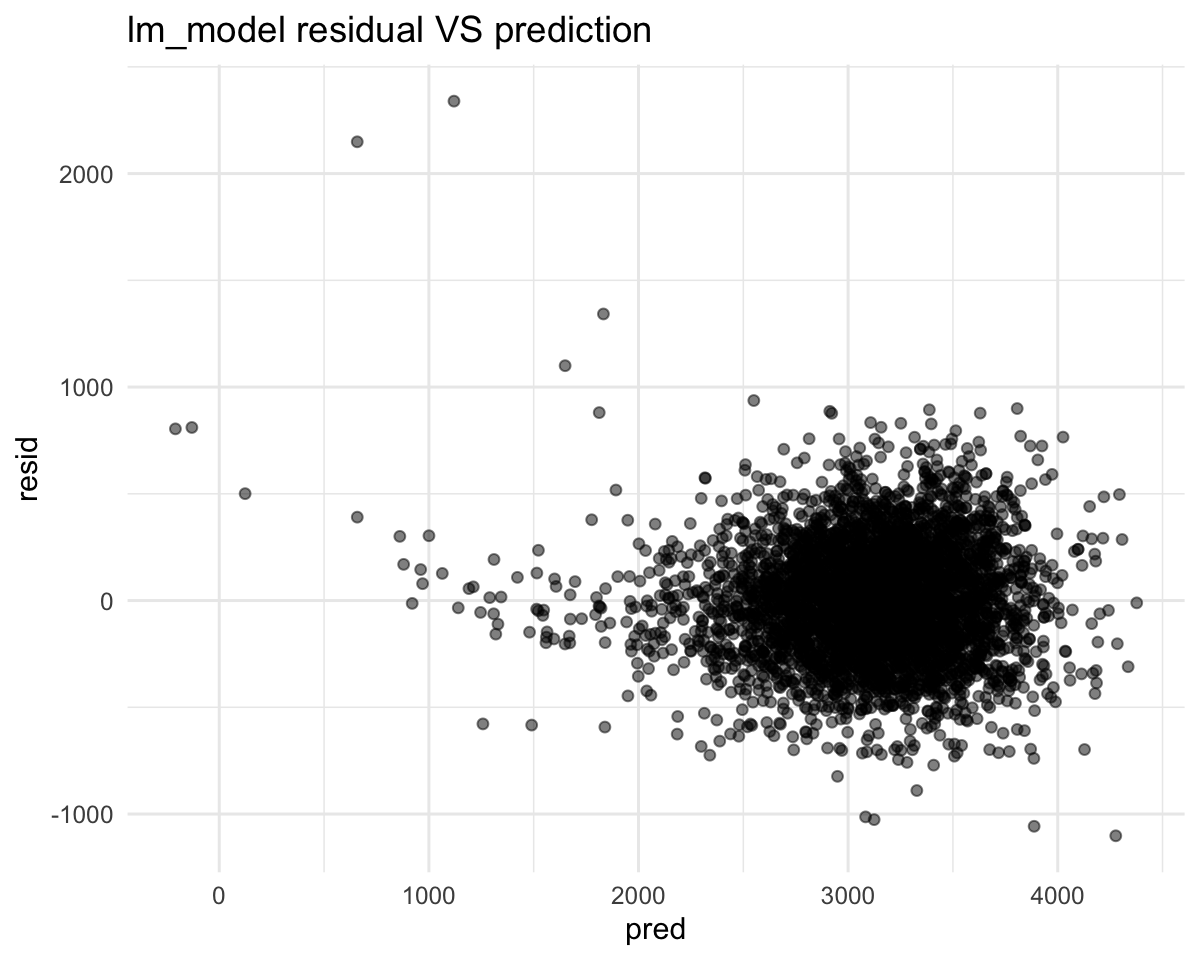
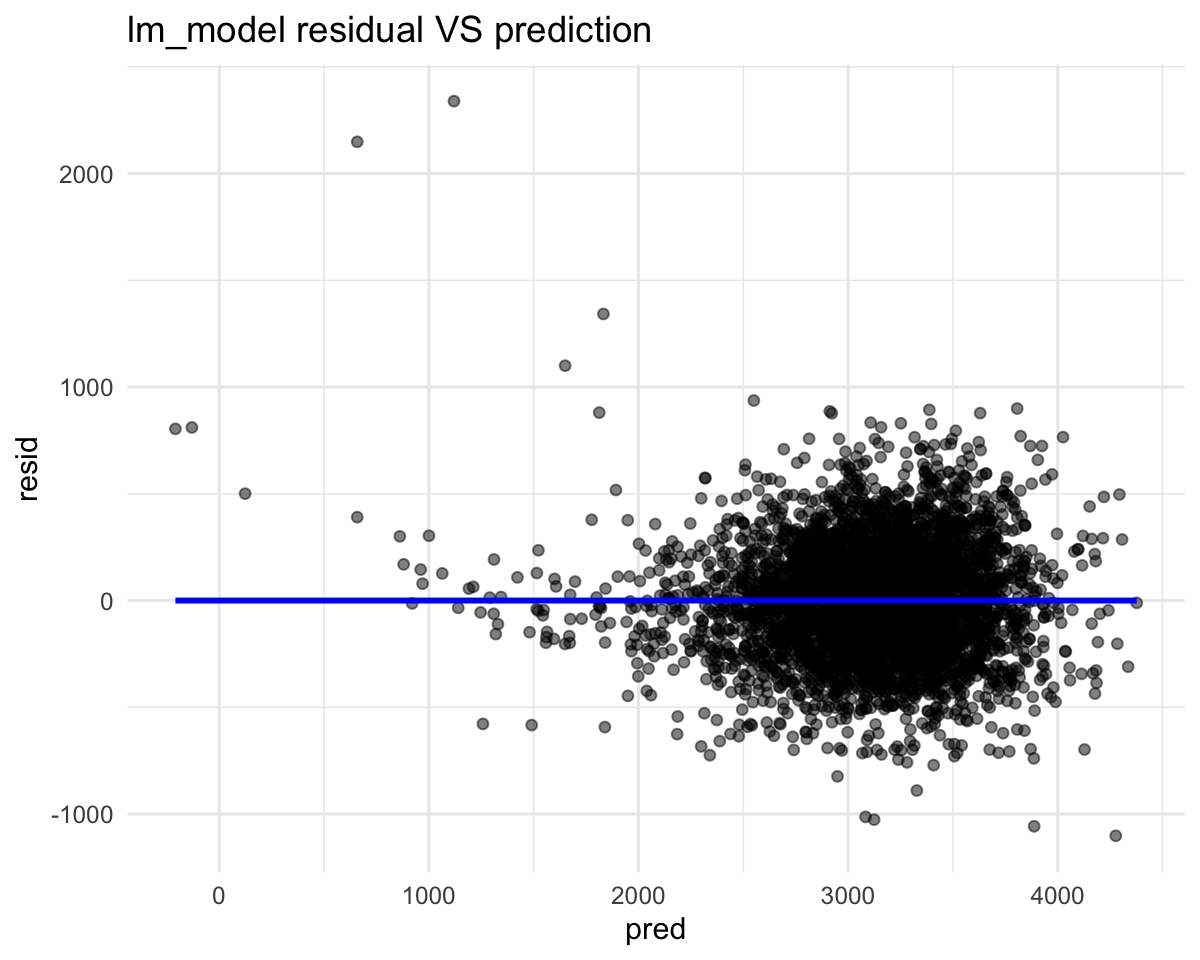
final commit

Changed region(s): [[0.1542, 0.625, 0.925, 0.6562]]

diff --git a/p8105_hw6_yl4925.md b/p8105_hw6_yl4925.md
@@ -9,22 +9,23 @@ library(modelr)
 library(mgcv)
 ```
 
+## Problem1
+
 ``` r
 birthweight_df = read.csv("./data/birthweight.csv") %>% 
   janitor::clean_names() 
 ```
 
 ``` r
-birthweight_df %>% 
-  filter(is.na(rowSums(birthweight_df)))
+sum(is.na(rowSums(birthweight_df)))
 ```
 
-    ##  [1] babysex  bhead    blength  bwt      delwt    fincome  frace    gaweeks 
-    ##  [9] malform  menarche mheight  momage   mrace    parity   pnumlbw  pnumsga 
-    ## [17] ppbmi    ppwt     smoken   wtgain  
-    ## <0 rows> (or 0-length row.names)
+    ## [1] 0
 
 There is no missing value.
+
+Then we try to propose a linear regression model for the data. First, we
+factor some variables
 
 ``` r
 fct_birthweight_df = birthweight_df %>% 
@@ -38,6 +39,9 @@ fct_birthweight_df = birthweight_df %>%
     frace == 4 ~ "puerto_rican",
     frace == 8 ~ "other",
     frace == 9 ~ "unknown",
+  ), malform = case_when(
+    malform == 0 ~ "absent",
+    malform == 1 ~ "present"
   ), mrace = case_when(
     mrace == 1 ~ "white",
     mrace == 2 ~ "black",
@@ -47,13 +51,15 @@ fct_birthweight_df = birthweight_df %>%
   )) %>% 
   mutate(babysex = fct_infreq(babysex), 
          frace = fct_infreq(frace),
-         mrace = fct_infreq(mrace))
+         mrace = fct_infreq(mrace),
+         malform = fct_infreq(malform))
 ```
 
+Then we use lm to regress all variables. And we try to exclude some
+variables from our model.
+
 ``` r
-original_fit = lm(bwt ~ babysex + bhead + blength + delwt + fincome + frace + gaweeks + 
-                    malform + menarche + mheight + momage + mrace + parity + pnumlbw + 
-                    pnumsga + ppbmi + ppwt + smoken + wtgain, data = fct_birthweight_df)
+original_fit = lm(bwt ~ ., data = fct_birthweight_df)
 ```
 
 ``` r
@@ -70,9 +76,10 @@ original_fit_df %>%
 | pnumsga |
 | wtgain  |
 
-We find there are three NA coefficients, which means that these three
-variables could be linear combination of other variables, so we do not
-choose these three variables as predictors.
+We find there are three NA coefficients (pnumlbw, pnumsga and wtgain),
+which means that these three variables could be linear combination of
+other variables, so we do not choose these three variables as
+predictors.
 
 ``` r
 original_fit_df %>% 
@@ -88,7 +95,7 @@ original_fit_df %>%
 | fracepuerto\_rican | -46.9962310 | 0.2929123 |
 | fraceasian         |  21.2361118 | 0.7592729 |
 | fraceother         |   4.2969242 | 0.9537446 |
-| malform            |   9.7649680 | 0.8900388 |
+| malformpresent     |   9.7649680 | 0.8900388 |
 | menarche           |  -3.5507723 | 0.2200827 |
 | mheight            |   9.7874130 | 0.3425881 |
 | momage             |   0.7593479 | 0.5344182 |
@@ -100,14 +107,48 @@ original_fit_df %>%
 The p values for these 13 variables are greater than 0.05, which means
 that we could not reject null hypothesis (coefficient is zero). But for
 mrace variable, some values of this variable are necessary (p value &lt;
-0.05). So we remain these two variables and only exclude frace (only the
-p value for “unknown” &lt; 0.05), fincome, malform, menarche, mheight,
-momage, ppbmi and ppwt.
+0.05). So we remain mrace variables and only exclude frace (only the p
+value for “unknown” &lt; 0.05), fincome, malform (only the p value for
+“absent” &lt; 0.05), menarche, mheight, momage, ppbmi and ppwt.
+
+Then we get a better model.
 
 ``` r
 better_fit = lm(bwt ~ babysex + bhead + blength + delwt + gaweeks + mrace + 
                   parity + ppbmi + ppwt + smoken , data = fct_birthweight_df)
+summary(better_fit)
 ```
+
+    ## 
+    ## Call:
+    ## lm(formula = bwt ~ babysex + bhead + blength + delwt + gaweeks + 
+    ##     mrace + parity + ppbmi + ppwt + smoken, data = fct_birthweight_df)
+    ## 
+    ## Residuals:
+    ##      Min       1Q   Median       3Q      Max 
+    ## -1101.89  -183.53    -2.52   174.72  2339.27 
+    ## 
+    ## Coefficients:
+    ##                     Estimate Std. Error t value Pr(>|t|)    
+    ## (Intercept)       -5669.6216   101.0955 -56.082  < 2e-16 ***
+    ## babysexfemale        28.3709     8.4578   3.354 0.000802 ***
+    ## bhead               131.0913     3.4452  38.050  < 2e-16 ***
+    ## blength              74.8239     2.0178  37.082  < 2e-16 ***
+    ## delwt                 4.0857     0.3920  10.422  < 2e-16 ***
+    ## gaweeks              11.6674     1.4618   7.981 1.84e-15 ***
+    ## mraceblack         -145.5239     9.2254 -15.774  < 2e-16 ***
+    ## mracepuerto_rican  -107.2366    19.0691  -5.624 1.99e-08 ***
+    ## mraceasian          -79.5499    42.2934  -1.881 0.060052 .  
+    ## parity               94.3584    40.3421   2.339 0.019383 *  
+    ## ppbmi                -9.5824     2.5704  -3.728 0.000196 ***
+    ## ppwt                 -0.9795     0.5659  -1.731 0.083553 .  
+    ## smoken               -4.8751     0.5856  -8.325  < 2e-16 ***
+    ## ---
+    ## Signif. codes:  0 '***' 0.001 '**' 0.01 '*' 0.05 '.' 0.1 ' ' 1
+    ## 
+    ## Residual standard error: 272.4 on 4329 degrees of freedom
+    ## Multiple R-squared:  0.7178, Adjusted R-squared:  0.717 
+    ## F-statistic: 917.7 on 12 and 4329 DF,  p-value: < 2.2e-16
 
 ``` r
 better_fit %>% 
@@ -137,16 +178,23 @@ fct_birthweight_df %>%
   modelr::add_predictions(better_fit) %>% 
   ggplot(aes(x = pred, y = resid)) + 
   geom_point(alpha = 0.5) + 
+  geom_smooth(color = "blue", method = "lm", se = FALSE) + 
   labs(
     title = "lm_model residual VS prediction"
   )
 ```
 
 <img src="p8105_hw6_yl4925_files/figure-gfm/unnamed-chunk-10-1.png" width="90%" />
+We find the slope of smooth line for residual VS predictor is almost 0,
+which means that these points are symmetric about the predictor-axis.
+The reason for this might be that when we use linear regression, we set
+a normal distribution residual (*ϵ* \~ N (0, *σ*<sup>2</sup>)).
+
+Then we compare our model to the main effect model and interaction
+model.
 
 ``` r
-cv_df = 
-  crossv_mc(fct_birthweight_df, 100) 
+cv_df = crossv_mc(fct_birthweight_df, 100) 
 ```
 
 ``` r
@@ -164,13 +212,13 @@ cv_df =
     my_mod = map(train, ~lm(bwt ~ babysex + bhead + blength + delwt + gaweeks + mrace + 
                   parity + ppbmi + ppwt + smoken , data = .x)),
     len_ges_mod = map(train, ~lm(bwt ~ blength + gaweeks, data = .x)),
-    headcir_len_sex_mod = map(train, ~lm(bwt ~ bhead + blength + babysex + 
-                                           bhead * blength + bhead * babysex + blength * babysex + 
-                                           bhead * blength * babysex, data = .x))) %>% 
+    headcir_len_sex_mod = map(train, ~lm(bwt ~ blength + bhead + babysex + 
+                                           blength * bhead + blength * babysex + bhead * babysex + 
+                                           blength*bhead*babysex, data = .x))) %>% 
   mutate(
     rmse_my = map2_dbl(my_mod, test, ~rmse(model = .x, data = .y)),
-    rmse_len_ges = map2_dbl(len_ges_mod, test, ~rmse(model = .x, data = .y)),
-    rmse_headcir_len_sex = map2_dbl(headcir_len_sex_mod, test, ~rmse(model = .x, data = .y)))
+    rmse_main_effect = map2_dbl(len_ges_mod, test, ~rmse(model = .x, data = .y)),
+    rmse_interaction = map2_dbl(headcir_len_sex_mod, test, ~rmse(model = .x, data = .y)))
 ```
 
 ``` r
@@ -181,7 +229,7 @@ cv_df %>%
     names_to = "model", 
     values_to = "rmse",
     names_prefix = "rmse_") %>% 
-  mutate(model = fct_inorder(model)) %>% 
+  mutate(model = fct_reorder(model, rmse)) %>% 
   ggplot(aes(x = model, y = rmse)) + geom_violin() +
   labs(
     title = "RMSE for three models"
@@ -190,7 +238,9 @@ cv_df %>%
 
 <img src="p8105_hw6_yl4925_files/figure-gfm/unnamed-chunk-14-1.png" width="90%" />
 
-## problem 2
+We find the root mean square error for my model is the smallest, and
+interaction model has a middle root mean square error, and the main
+effect model has largest root mean square error. \#\# problem 2
 
 ``` r
 weather_df = 
@@ -205,6 +255,8 @@ weather_df =
     tmax = tmax / 10) %>%
   select(name, id, everything())
 ```
+
+Use broom tidy to get estimate for intercept and slope.
 
 ``` r
 log_result_df = weather_df %>% 
@@ -226,6 +278,8 @@ log_result_df = weather_df %>%
   mutate(log = log(beta0 * beta1))
 ```
 
+Show the distribution.
+
 ``` r
 log_result_df %>% 
   ggplot(aes(x = log)) +
@@ -236,20 +290,39 @@ log_result_df %>%
 ```
 
 <img src="p8105_hw6_yl4925_files/figure-gfm/unnamed-chunk-17-1.png" width="90%" />
+Distribution is close to normal distribution.
+
+Show mean, 95% CI, and sd for
+*l**o**g*(*β*<sub>1</sub> \* *β*<sub>2</sub>)
 
 ``` r
-log_result_df %>% 
+log_numerical_result = log_result_df %>% 
   summarize(
     lower_limit = quantile(log, 0.025),
     upper_limit = quantile(log, 0.975),
     log_mean = mean(log),
-    log_se = sd(log)) %>% 
+    log_sd = sd(log)) 
+log_numerical_result %>% 
   knitr::kable()
 ```
 
-| lower\_limit | upper\_limit | log\_mean |   log\_se |
+| lower\_limit | upper\_limit | log\_mean |   log\_sd |
 |-------------:|-------------:|----------:|----------:|
-|     1.965243 |     2.058933 |   2.01278 | 0.0240216 |
+|     1.964954 |     2.058045 |  2.012994 | 0.0238808 |
+
+``` r
+log_mean = log_numerical_result$log_mean
+log_sd = log_numerical_result$log_sd
+log_lower = log_numerical_result$lower_limit
+log_upper = log_numerical_result$upper_limit
+```
+
+The mean for *l**o**g*(*β*<sub>1</sub> \* *β*<sub>2</sub>) is 2.0129936,
+the sd for *l**o**g*(*β*<sub>1</sub> \* *β*<sub>2</sub>) is 0.0238808,
+95% CI for *l**o**g*(*β*<sub>1</sub> \* *β*<sub>2</sub>) is \[1.9649542,
+2.0580447\].
+
+Show mean, 95% CI, and sd for *r*<sup>2</sup>
 
 ``` r
 r_square_result_df = weather_df %>% 
@@ -273,16 +346,29 @@ r_square_result_df %>%
 
 <img src="p8105_hw6_yl4925_files/figure-gfm/unnamed-chunk-20-1.png" width="90%" />
 
+Distribution is close to normal distribution.
+
 ``` r
-r_square_result_df %>% 
+r2_numerical_result = r_square_result_df %>% 
   summarize(
     lower_limit = quantile(r.squared, 0.025),
     upper_limit = quantile(r.squared, 0.975),
     r_square_mean = mean(r.squared),
-    r_square_se = sd(r.squared)) %>% 
+    r_square_sd = sd(r.squared)) 
+r2_numerical_result %>% 
   knitr::kable()
 ```
 
-| lower\_limit | upper\_limit | r\_square\_mean | r\_square\_se |
+| lower\_limit | upper\_limit | r\_square\_mean | r\_square\_sd |
 |-------------:|-------------:|----------------:|--------------:|
-|    0.8939748 |    0.9271026 |       0.9114796 |     0.0085105 |
+|    0.8940035 |    0.9269994 |       0.9115706 |     0.0085232 |
+
+``` r
+r2_mean = r2_numerical_result$r_square_mean
+r2_sd = r2_numerical_result$r_square_sd
+r2_lower = r2_numerical_result$lower_limit
+r2_upper = r2_numerical_result$upper_limit
+```
+
+The mean for *r*<sup>2</sup> is 0.9115706, the sd for *r*<sup>2</sup> is
+0.0085232, 95% CI for *r*<sup>2</sup> is \[0.8940035, 0.9269994\].
